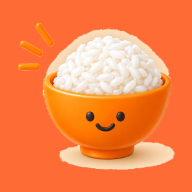
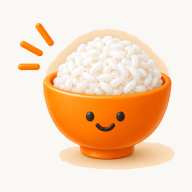
fix: PWA 아이콘 배경을 앱 메인 배경색으로 변경, 아이패드 사파리 설치 안내 오분류 수정
- 앱 설치 아이콘/스플래시 배경을 브랜드 오렌지에서 --color-bg 베이지로 통일
- iPadOS 13+ Safari의 데스크톱 UA 위장으로 PC 즐겨찾기 안내가 뜨던 문제 수정
  (MacIntel + 멀티터치 조합으로 아이패드 판별 보정)

diff --git a/src/hooks/useInstallPrompt.js b/src/hooks/useInstallPrompt.js
@@ -9,7 +9,10 @@ export function useInstallPrompt() {
 
   useEffect(() => {
     const ua = navigator.userAgent
-    const ios = /iphone|ipad|ipod/i.test(ua)
+    // iPadOS 13+는 Safari 기본 UA가 데스크톱 macOS Safari로 위장돼 있어 "iPad" 문자열이 안 잡힌다.
+    // 터치를 지원하는 "MacIntel"이면 실제로는 아이패드인 경우로 간주한다.
+    const isIPadOS = navigator.platform === 'MacIntel' && navigator.maxTouchPoints > 1
+    const ios = /iphone|ipad|ipod/i.test(ua) || isIPadOS
     const android = /android/i.test(ua)
     setIsIOS(ios)
     setIsAndroid(android)